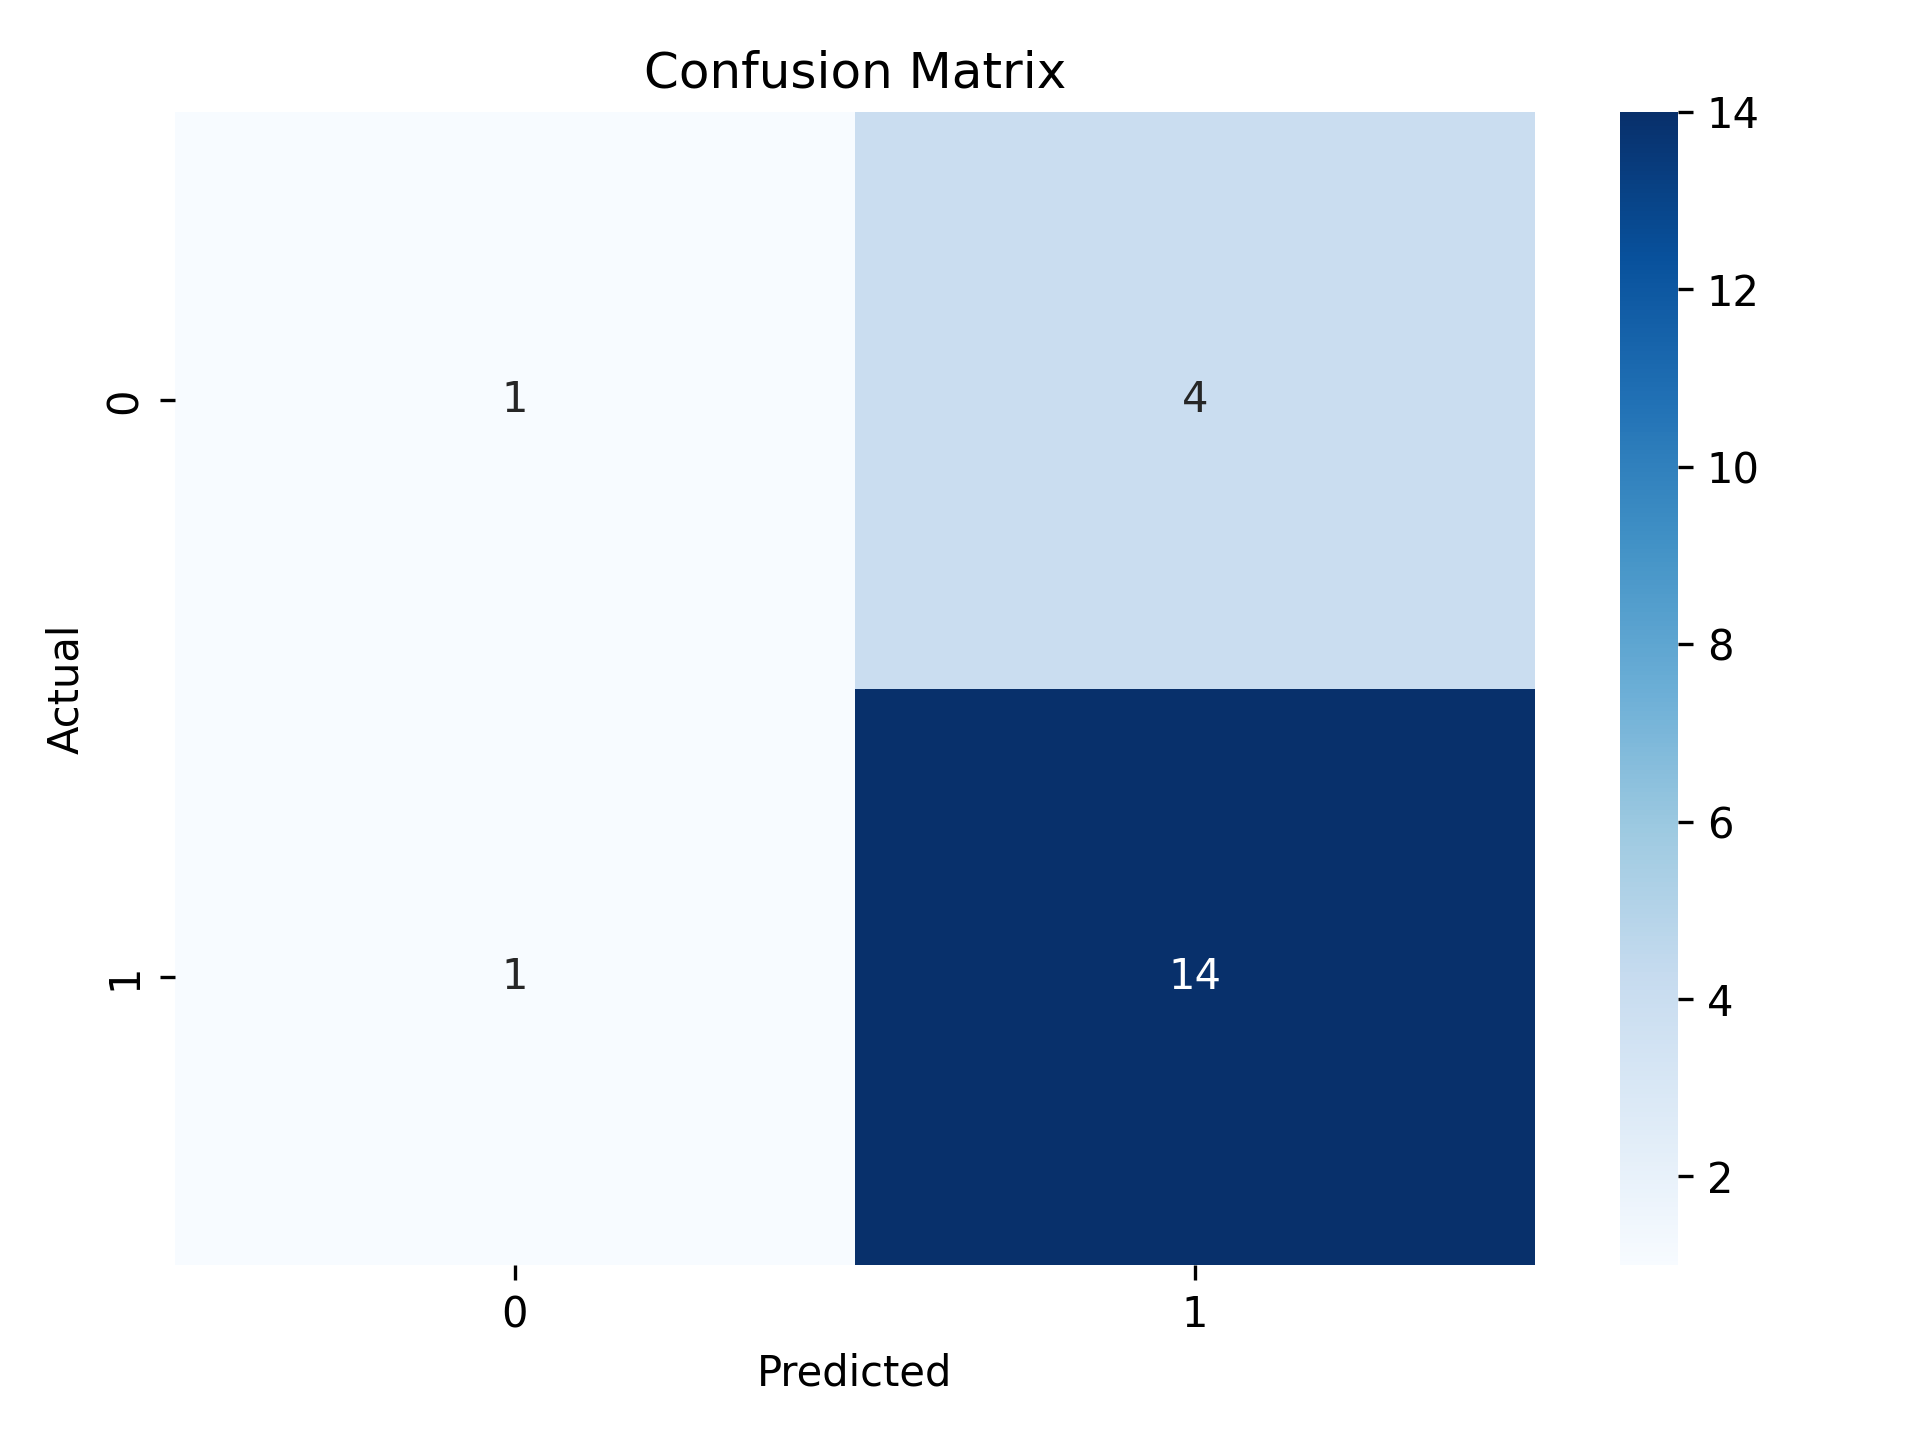
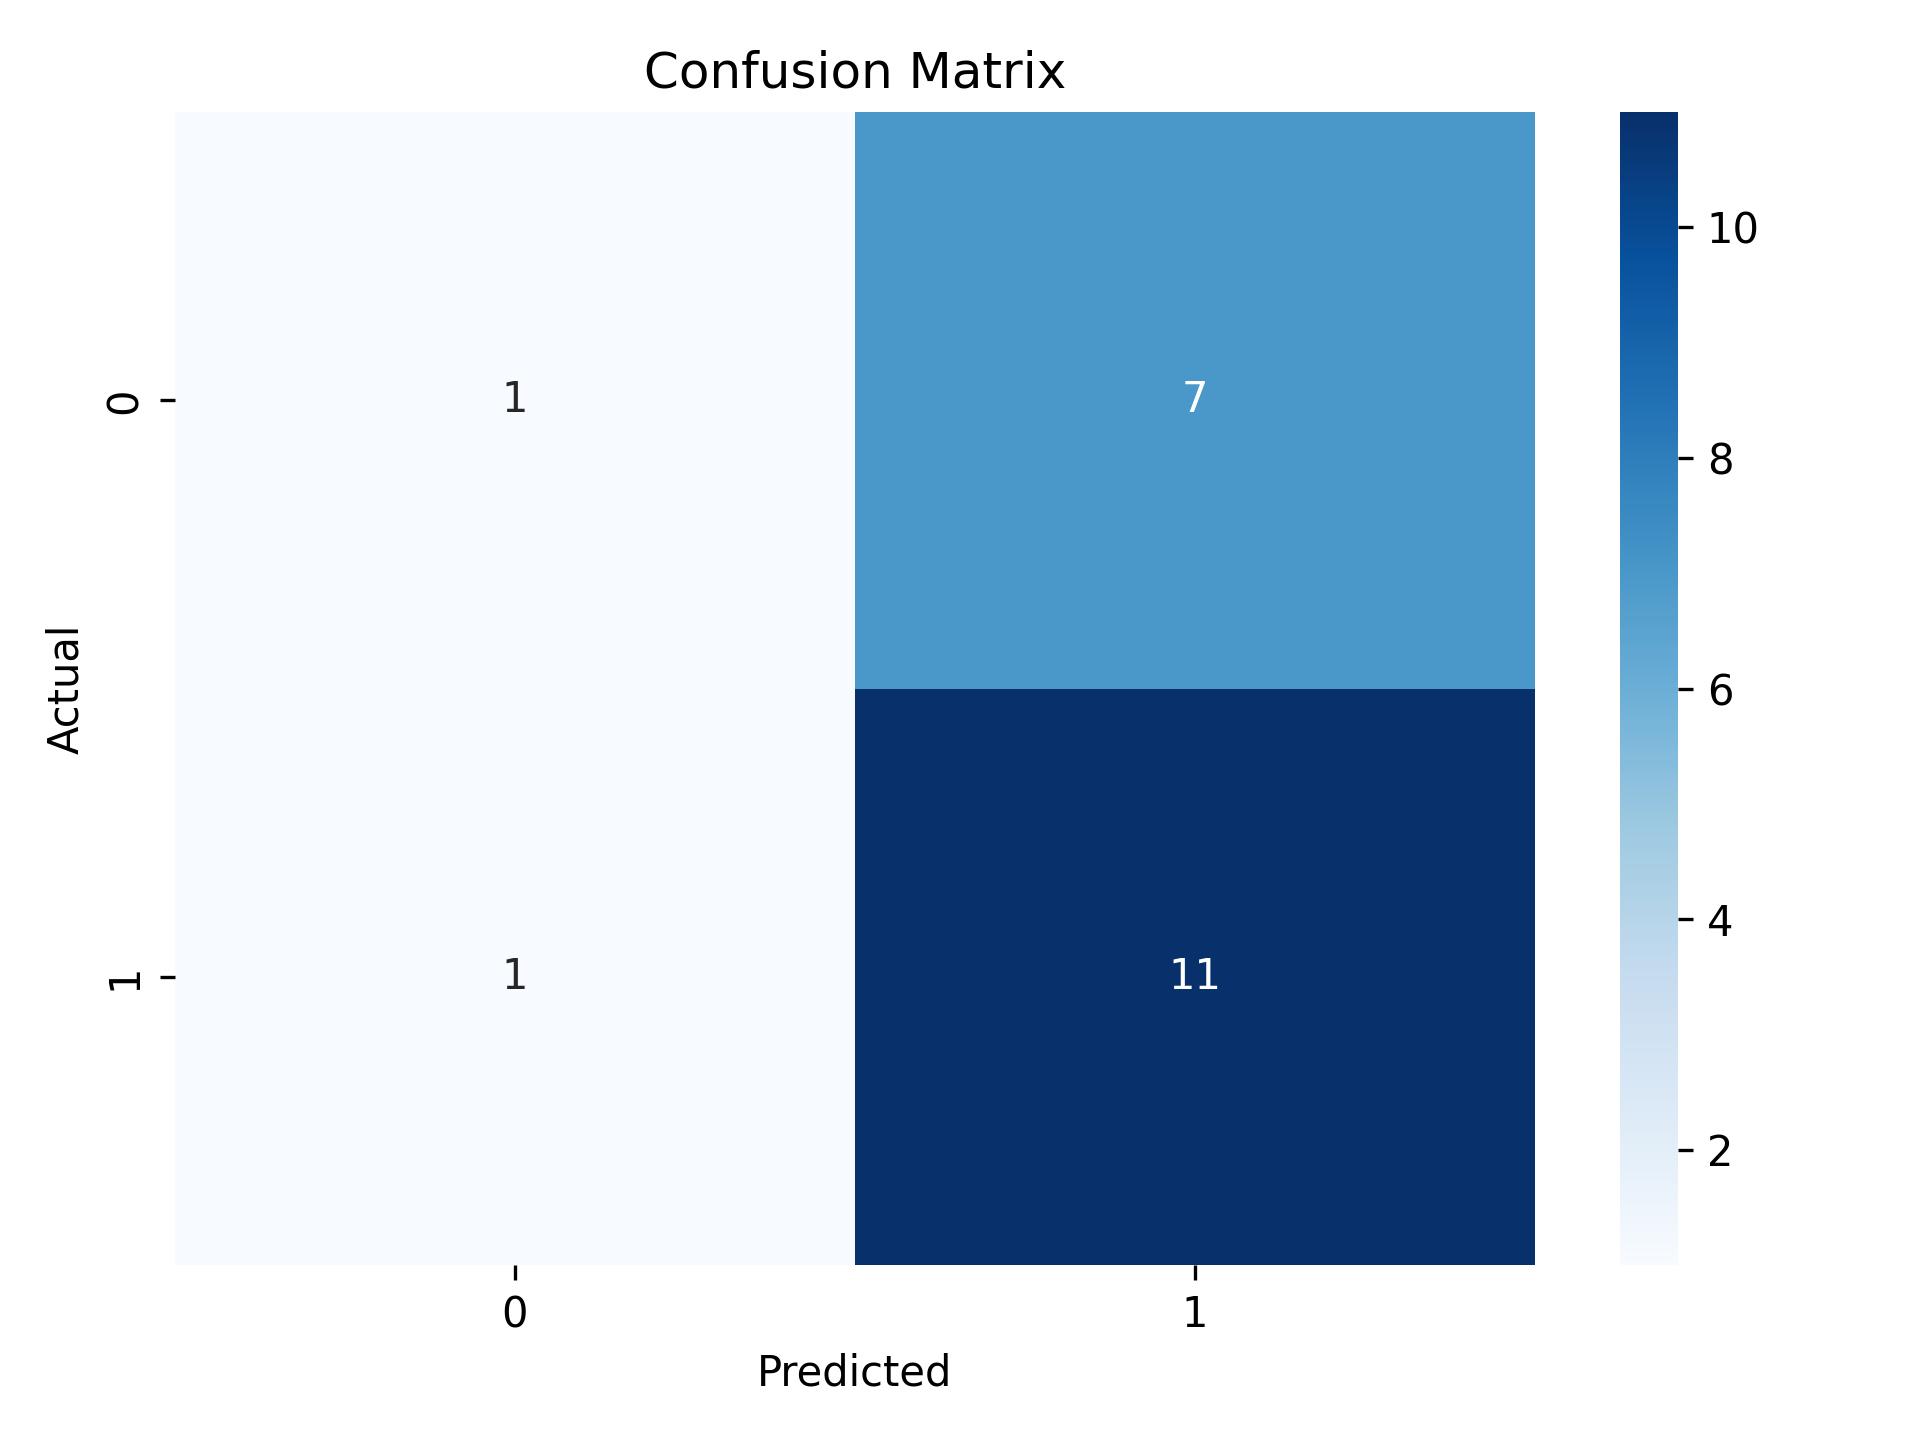
updated to 6 features, main does plotting now, deleted feature graph and created feature table

diff --git a/data_generator.py b/data_generator.py
@@ -29,13 +29,13 @@ def make_data(n=100):
     success = (np.random.rand(n) < prob_success).astype(int)
 
     df = pd.DataFrame({
-        'temperature': temp,
-        'spin_speed': speed,
-        'solvent_ratio': ratio,
-        'deposition_time': time,
-        'solute_concentration': concentration,
-        'annealing_time': anneal_time,
-        'success': success
+        'temperature [C]': temp,
+        'spin speed [rpm]': speed,
+        'solvent ratio [-]': ratio,
+        'deposition time [s]': time,
+        'solute concentration [mol/L]': concentration,
+        'annealing time [s]': anneal_time,
+        'success [-]': success
     })
 
     return df

diff --git a/model_runner.py b/model_runner.py
@@ -16,11 +16,11 @@ def run_model(data_file="materials_data.csv"):
     df = pd.read_csv(data_file).dropna()
 
     features = [
-        "temperature", "spin_speed", "solvent_ratio",
-        "deposition_time", "solute_concentration", "annealing_time"
+        "temperature [C]", "spin speed [rpm]", "solvent ratio [-]",
+        "deposition time [s]", "solute concentration [mol/L]", "annealing time [s]"
     ]
     X = df[features]
-    y = df["success"]
+    y = df["success [-]"]
 
     X_train, X_test, y_train, y_test = train_test_split(X, y, test_size=0.2, random_state=42)
 

diff --git a/main.py b/main.py
@@ -44,7 +44,7 @@ def save_results_table(coef_df, accuracy, save_path="figures/model_summary.png")
 
     plt.title(f"Logistic Regression Accuracy: {accuracy:.2f}", fontsize=14, pad=0)
 
-    plt.tight_layout(rect = [0.0, 0.0, 1.0, 0.92])
+    plt.tight_layout(rect = [0.0, 0.0, 1.0, 1.0])
     plt.savefig(save_path, dpi=300)
     plt.close()
 
